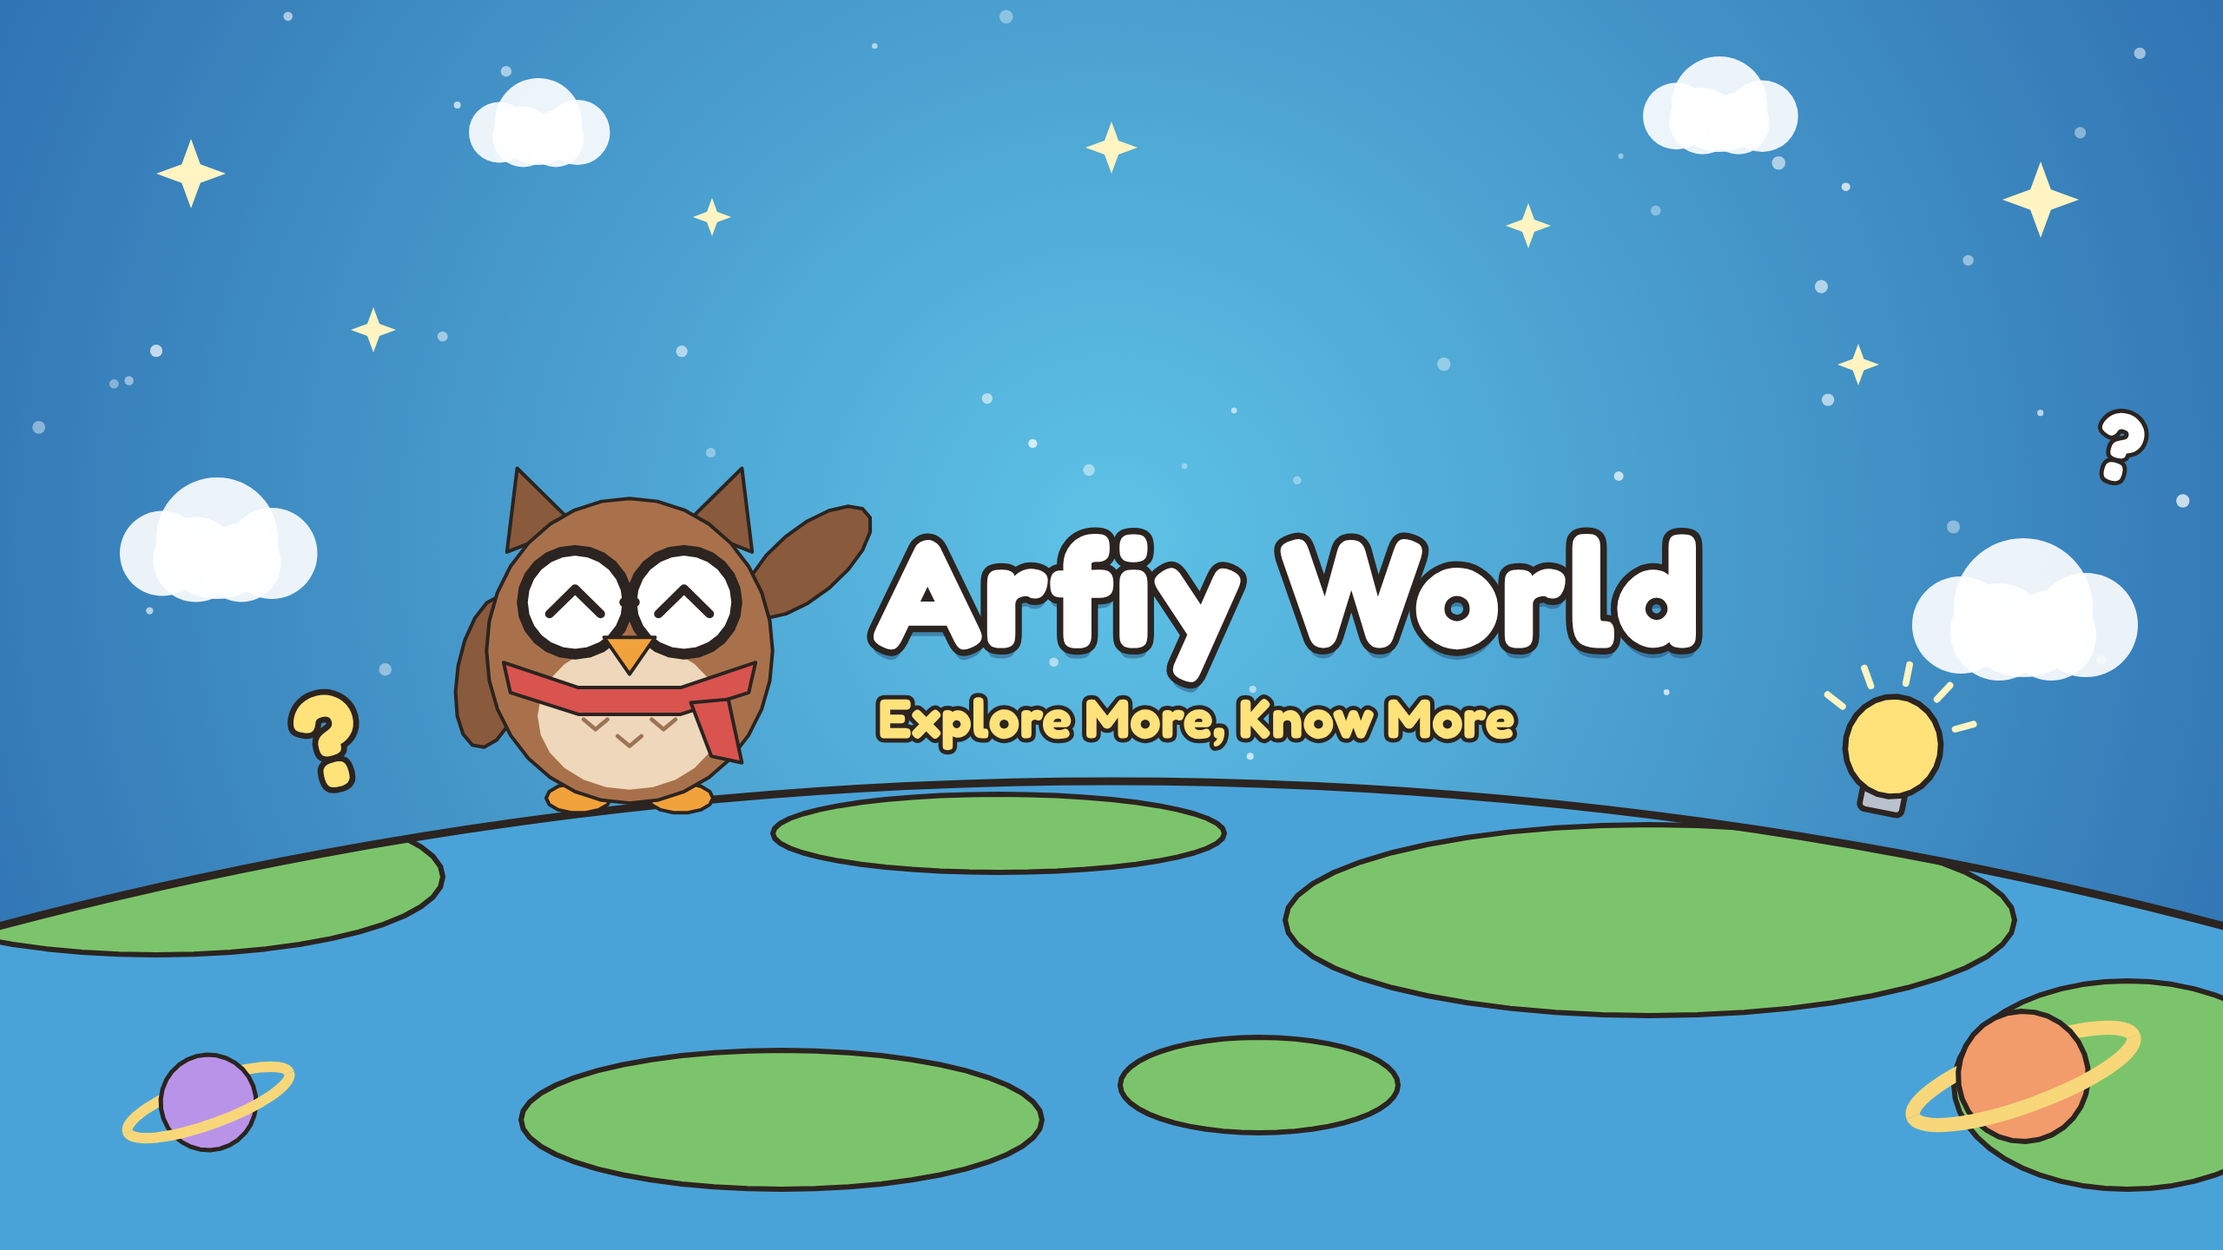
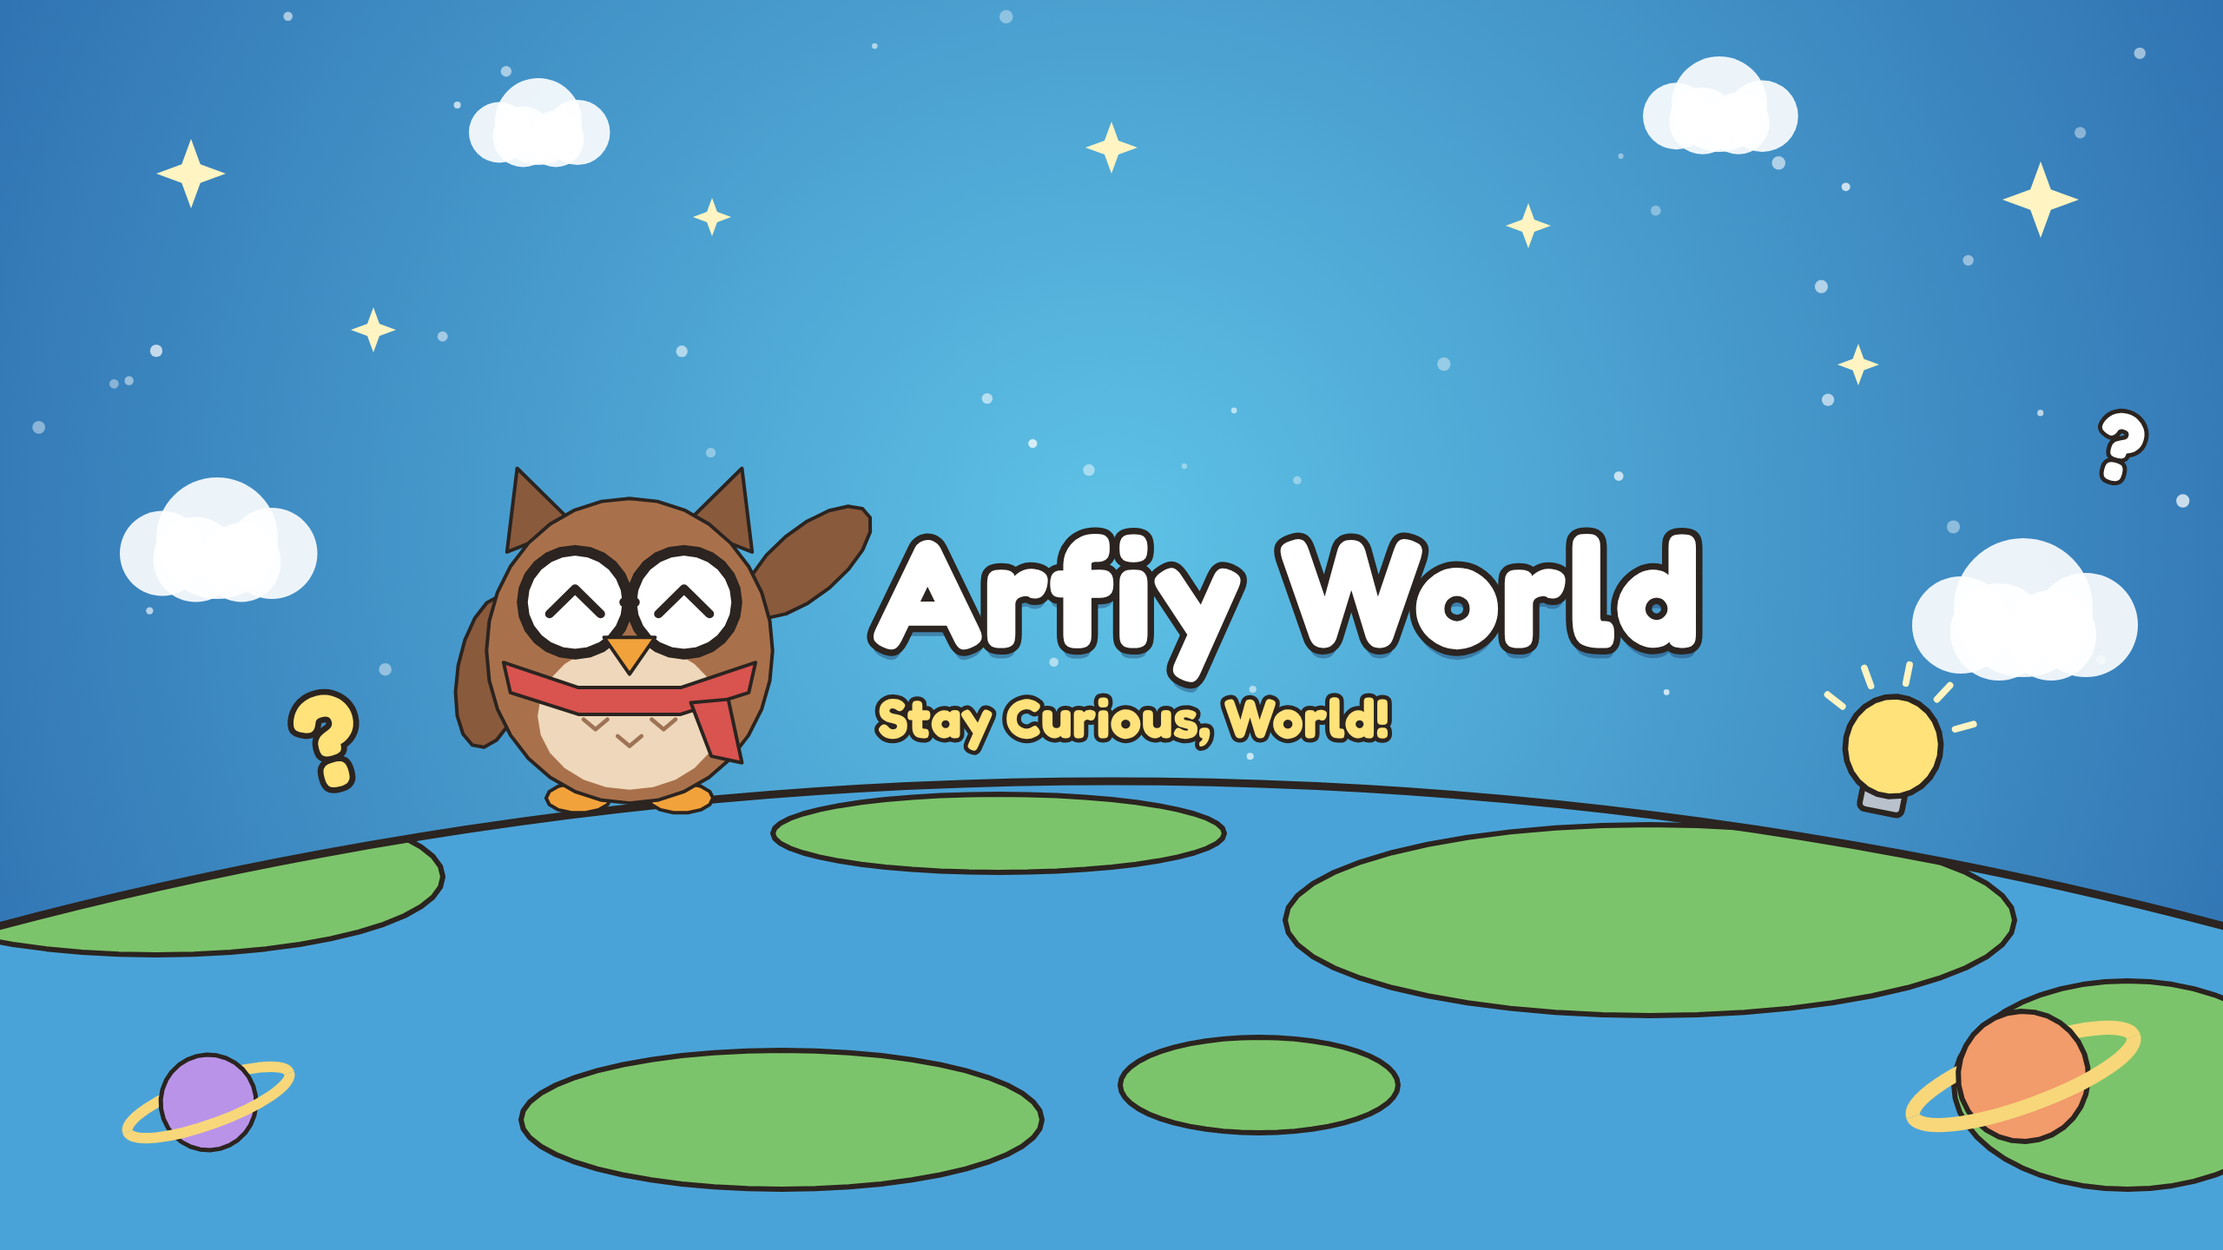
Ganti slogan penutup jadi "Stay Curious, World!"
Aturan §11/§12/checklist, skrip baru, kartu penutup (dasar.js),
kamus ucapan, bio & deskripsi akun, serta banner ikut diperbarui.

Claude-Session: https://claude.ai/code/session_01GVfffxuAP1xZddtmSRJYLz

Changed region(s): [[0.375, 0.5312, 0.6875, 0.625]]

diff --git a/projects/_bersama/dasar.js b/projects/_bersama/dasar.js
@@ -131,7 +131,7 @@ function brandStamp(x, y, age, life) {
   ctx.font = `700 76px ${FONT}`; ctx.fillStyle = '#33241C'; ctx.textBaseline = 'middle'; ctx.fillText('Adriy.Project', -150, 4);
   ctx.restore();
 }
-function endCard(t, start) {   // "Explore More, Know More": last line, same card in every video (aturan §11)
+function endCard(t, start) {   // "Stay Curious, World!": last line, same card in every video (aturan §11)
   const a = t - start; if (a < 0) return;
   const k = lerp(.86, 1, easeOut(seg(a, 0, .6))), al = seg(a, 0, .45);
   ctx.save(); ctx.globalAlpha = al;
@@ -140,8 +140,8 @@ function endCard(t, start) {   // "Explore More, Know More": last line, same car
   ctx.translate(540, 820); ctx.scale(k, k);
   GAYA.shape(rr(-400, -230, 800, 460, 40), '#FFF3D6', 9200, { fill: .99, text: true });
   ctx.textAlign = 'center'; ctx.textBaseline = 'middle'; ctx.fillStyle = '#33241C';
-  ctx.font = `700 104px ${FONT}`; ctx.fillText('Explore More,', 0, -78);
-  ctx.fillStyle = '#C4572F'; ctx.fillText('Know More', 0, 52);
+  ctx.font = `700 104px ${FONT}`; ctx.fillText('Stay Curious,', 0, -78);
+  ctx.fillStyle = '#C4572F'; ctx.fillText('World!', 0, 52);
   ctx.fillStyle = rgba('#E3A33B', .9); ctx.fillRect(-200, 128, 400, 10);
   ctx.textAlign = 'left'; ctx.restore();
   ctx.save(); ctx.globalAlpha = al; clawd(540, 1330, 24, { end: true, face: 'happy', arms: [.3, 1.3 + .35 * Math.sin(a * 9)], dy: -.3 * Math.abs(Math.sin(a * 3)) }); ctx.restore();

diff --git a/projects/akun/akun.html b/projects/akun/akun.html
@@ -66,7 +66,7 @@ function banner() {
   // area aman YouTube: x 507–2053, y 508–931
   adriy(725, 929, 39, { face: 'happy', arms: [.3, 1.5] });
   const tw = title('Arfiy World', 1005, 745, 178, '#FFFFFF', INK, 15);
-  title('Explore More, Know More', 1011, 850, 64, '#FFE27A', INK, 10);
+  title('Stay Curious, World!', 1011, 850, 64, '#FFE27A', INK, 10);
   window.TW = tw;
 }
 window.ready.then(() => { T = 1.3; MODE === 'banner' ? banner() : profil(); window.done = true; });

diff --git a/projects/suara/ucapan.py b/projects/suara/ucapan.py
@@ -10,7 +10,7 @@ HURUF = json.load(open(os.path.join(HERE, 'kamus_huruf.json')))   # A -> "A", B 
 # kata yang terbukti sering salah ucap -> ejaan bantu yang berhasil (lihat projects/bangun-pagi/perbaiki_ucapan.py)
 KATA = {'Arfiy World': 'Arfi Werld', 'Adriy.Project': 'Adri titik Project', 'Whoosh': 'Wush', 'WHOOSH': 'Wush', 'alarm': 'alarrm', 'Alarm': 'Alarrm', 'snooze': 'snuz', 'Snooze': 'Snuz', 'Cahaya': 'Cahaaya', 'cahaya': 'cahaaya',
         'weekend': 'wiken', 'Weekend': 'Wiken', 'Clawd': 'Klod',
-        'Explore More, Know More': 'Eksplor mor, nou mor', 'wkwk': 'wakakak', 'spotlight effect': 'spotlait efek', 'earworm': 'irworm', 'Reading': 'Reding', 'Cornell': 'Kornel', 'Explore More. Know More': 'Eksplor mor. Nou mor', "Hershey's": 'Hersis', 'Lindt': 'Lint', 'Shampanier': 'Syampanie', 'Ariely': 'Arieli', 'zero price effect': 'ziro prais efek', 'migrating motor complex': 'maigreting motor kompleks', 'Washington': 'Wosyington'}
+        'Stay Curious, World!': 'Stei kyurius, werld!', 'Stay Curious, World': 'Stei kyurius, werld', 'Explore More, Know More': 'Eksplor mor, nou mor', 'wkwk': 'wakakak', 'spotlight effect': 'spotlait efek', 'earworm': 'irworm', 'Reading': 'Reding', 'Cornell': 'Kornel', 'Explore More. Know More': 'Eksplor mor. Nou mor', "Hershey's": 'Hersis', 'Lindt': 'Lint', 'Shampanier': 'Syampanie', 'Ariely': 'Arieli', 'zero price effect': 'ziro prais efek', 'migrating motor complex': 'maigreting motor kompleks', 'Washington': 'Wosyington'}
 
 ASING = {'Project', 'Cornell', 'effect', 'Explore'}
 

diff --git a/aturan.md b/aturan.md
@@ -271,9 +271,11 @@ Nama akun **Arfiy World** disebut di dalam narasi supaya penonton **ingat**, jad
 - ❌ "Follow Arfiy World buat konten lainnya!" (di akhir dan seperti iklan)
 - ❌ Disebut 3 kali dalam video 1 menit, atau tanpa stempel dan bunyi khas
 
-## 11. CTA (ajakan) di skrip & penutup "Explore More, Know More"
+## 11. CTA (ajakan) di skrip & penutup "Stay Curious, World!"
 
-Setiap skrip **wajib** punya CTA dan **wajib** ditutup dengan kalimat khas **"Explore More, Know More"**.
+> Mulai 27 Nov 2026 slogan penutup = **"Stay Curious, World!"** (dipilih pemilik), menggantikan "Explore More, Know More" yang dipakai video lama.
+
+Setiap skrip **wajib** punya CTA dan **wajib** ditutup dengan kalimat khas **"Stay Curious, World!"**.
 
 **Urutan bagian akhir video (wajib):**
 1. **Kesimpulan singkat**: 1–2 kalimat yang mengaitkan isi video ke kehidupan penonton.
@@ -281,23 +283,23 @@ Setiap skrip **wajib** punya CTA dan **wajib** ditutup dengan kalimat khas **"Ex
    - Bentuk yang dipakai: pilihan ("pilih yang mana: A, B, atau C?"), pengakuan ("kamu pernah juga? tulis 'gue banget'"), atau tebakan ("menurutmu kenapa…?").
    - Teks di layar menampilkan pilihannya, Adriy menunjuk ke arah kolom komentar (kanan bawah, tetap di kotak aman).
 3. **CTA kedua (pilih 1, singkat, ≤ 1 kalimat)**: ajak **simpan** ("Simpan biar nggak lupa"), **bagikan** ("Kirim ke teman yang suka begini"), atau **ikuti** ("Ikuti buat fakta kayak gini lagi"). Ganti-ganti tiap video; **tanpa menyebut nama akun** (nama akun hanya di tengah, §10).
-4. **Penutup "Explore More, Know More"**: kalimat **terakhir** video, selalu sama persis.
+4. **Penutup "Stay Curious, World!"**: kalimat **terakhir** video, selalu sama persis.
 
-**Aturan "Explore More, Know More":**
-- **Diucapkan** di narasi sebagai kalimat terakhir, dengan jeda ±0,4 detik sebelumnya. Arahan suara: *hangat, yakin, tersenyum, tempo sedang*. Cara baca: "eksplor mor, nou mor"; lolos cek ucapan (`cek_ucapan.py`) sebelum dipakai.
-- **Ditampilkan** sebagai kartu penutup: teks **"Explore More, Know More"** di tengah kotak aman, ukuran ≥ 80 px, desain & warna sama di setiap video, muncul halus (fade + sedikit membesar), bertahan **≥ 1,5 detik**. Adriy melambai atau memberi hormat kecil di sampingnya.
+**Aturan "Stay Curious, World!":**
+- **Diucapkan** di narasi sebagai kalimat terakhir, dengan jeda ±0,4 detik sebelumnya. Arahan suara: *hangat, yakin, tersenyum, tempo sedang*. Cara baca: "stei kyurius, werld"; lolos cek ucapan (`cek_ucapan.py`) sebelum dipakai.
+- **Ditampilkan** sebagai kartu penutup: teks **"Stay Curious, World!"** di tengah kotak aman, ukuran ≥ 80 px, desain & warna sama di setiap video, muncul halus (fade + sedikit membesar), bertahan **≥ 1,5 detik**. Adriy melambai atau memberi hormat kecil di sampingnya.
 - **Bunyi khas penutup** selalu sama (pilih 1 sekali, lalu dipakai terus; berbeda dari bunyi khas nama akun §10). Musik mengecil lalu selesai bersama kartu.
 - Tidak dihitung sebagai penyebutan nama akun; nama "Arfiy World" tetap **tidak** muncul di akhir.
 - Teks dan cara ucapnya **tidak boleh diubah** (tanpa terjemahan, tanpa tambahan kata).
 
 **Contoh bagian akhir yang benar:**
-> "Jadi kalau lain kali kamu lihat burung kecil di atas gedung, jangan diremehin." → "Kalau kamu bisa punya satu kemampuan falcon: badan peluru, hidung jet, atau kacamata bawaan, pilih yang mana? Tulis di komentar!" → "Simpan biar kamu bisa pamer fakta ini ke teman." → *(jeda)* "Explore More, Know More."
+> "Jadi kalau lain kali kamu lihat burung kecil di atas gedung, jangan diremehin." → "Kalau kamu bisa punya satu kemampuan falcon: badan peluru, hidung jet, atau kacamata bawaan, pilih yang mana? Tulis di komentar!" → "Simpan biar kamu bisa pamer fakta ini ke teman." → *(jeda)* "Stay Curious, World!"
 
 **Contoh yang salah:**
 - ❌ "Jangan lupa like, comment, share, dan follow ya!" (CTA umum, tidak memancing jawaban, terlalu banyak permintaan)
 - ❌ Lebih dari 2 CTA, atau CTA di tengah video yang memotong cerita
-- ❌ "Explore More, Know More" diucapkan lalu masih ada kalimat lain sesudahnya
-- ❌ "Explore More, Know More bersama Arfiy World!" (menambah kata & menyebut nama di akhir)
+- ❌ "Stay Curious, World!" diucapkan lalu masih ada kalimat lain sesudahnya
+- ❌ "Stay Curious, Arfiy World!" (menambah kata & menyebut nama akun di akhir; "World" di slogan bukan nama akun)
 
 ## 12. Durasi & alur: masalah dibahas tuntas dulu, baru solusi (dari pemilik)
 
@@ -313,7 +315,7 @@ Masukan pemilik: video terlalu cepat melompat ke penyelesaian, padahal pembahasa
 | 3. Dugaan umum | Apa yang biasanya orang kira / lakukan, dan **kenapa itu tidak berhasil** | ± 10% |
 | 4. Penyebab | Penjelasan ilmiah **langkah demi langkah**, satu ide per adegan, pakai perumpamaan sehari-hari. Bukti/penelitian disebut di sini. Momen "Arfiy World" (§10) masuk di bagian ini | ± 30% |
 | 5. Solusi | Baru di sini trik/jawaban. Jelaskan **cara melakukannya** (langkah 1-2-3) dan contoh penerapannya | ± 20% |
-| 6. Rangkuman + CTA | Ulang inti dalam 1 kalimat, lalu CTA (§11) dan "Explore More, Know More" | ± 10% |
+| 6. Rangkuman + CTA | Ulang inti dalam 1 kalimat, lalu CTA (§11) dan "Stay Curious, World!" | ± 10% |
 
 **Larangan:**
 - Solusi/trik **tidak boleh** muncul sebelum bagian Masalah dan Penyebab selesai (paling cepat di **55–60% durasi**). Hook boleh *menjanjikan* jawaban, tapi tidak *menjelaskannya*.
@@ -327,7 +329,7 @@ CTA harus terasa seperti **ajakan ngobrol**, bukan perintah. Susunan (melengkapi
 2. **Pertanyaan yang gampang dijawab** dalam 1–3 kata atau angka, dan **memancing cerita** ("Kamu tim A atau tim B? Tulis A atau B di komentar!", "Berapa kali hari ini? Tulis angkanya!"). Beri **contoh jawaban** supaya penonton tidak ragu.
 3. **Alasan untuk menjawab:** "Aku penasaran siapa yang paling parah," "Jawaban paling lucu aku balas."
 4. **CTA kedua** (pilih satu): kirim ke teman yang **spesifik** ("teman yang paling sering…"), atau simpan **dengan alasan** ("simpan buat dicoba besok pagi"), atau ikuti **dengan janji** ("masih ada fakta aneh soal tubuhmu minggu depan").
-5. "Explore More, Know More."
+5. "Stay Curious, World!"
 
 Contoh benar: "Nah, sekarang giliran kamu. Kamu tim ngapus chat, atau tim langsung kirim? Tulis 'hapus' atau 'kirim' di komentar. Aku penasaran mana yang lebih banyak. Terus, kirim video ini ke teman yang paling sering bales 'wkwk' doang."
 Contoh salah: "Tulis di komentar ya!" (tidak jelas apa yang ditulis); tiga perintah sekaligus.
@@ -376,7 +378,7 @@ Mulai sekarang semua video memakai tokoh sendiri: **Adriy**, burung hantu kecil 
 - [ ] Gaya animasi dipilih lewat 6 langkah §9: metafora inti + alasan 1 kalimat ditulis, tidak termasuk gaya yang dilarang, beda dari video sebelumnya
 - [ ] Semua teks di kotak aman x 60–927, y 212–1540 (cek dengan garis bantu area aman)
 - [ ] "Arfiy World" disebut 1 kali (maks. 2 untuk video > 2 menit), di tengah (30–70% durasi), tidak di awal/akhir, dengan kalimat khusus + jeda, stempel visual ≥ 2 detik + reaksi Adriy, dan bunyi khas sting-bright-short
-- [ ] Bagian akhir sesuai §11: kesimpulan → CTA komentar yang memancing jawaban → 1 CTA kedua (simpan/bagikan/ikuti, tanpa nama akun) → "Explore More, Know More" sebagai kalimat terakhir (diucapkan + kartu penutup ≥ 1,5 detik + bunyi khas penutup)
+- [ ] Bagian akhir sesuai §11: kesimpulan → CTA komentar yang memancing jawaban → 1 CTA kedua (simpan/bagikan/ikuti, tanpa nama akun) → "Stay Curious, World!" sebagai kalimat terakhir (diucapkan + kartu penutup ≥ 1,5 detik + bunyi khas penutup)
 
 ## Riwayat video
 

diff --git a/projects/SKRIP-BARU.md b/projects/SKRIP-BARU.md
@@ -10,7 +10,7 @@
   - Alasan: Gaya potongan garis dipilih karena "suara dari dalam perut" di judul terlihat sebagai usus yang dibelah dan gelombang bersih-bersih yang lewat.
 - **Hook /yt-script (skor versi Inggris):** 70 WORKABLE (The Mistake); 2 versi lain: 58, 57
   - Versi Inggris yang diskor: "Stop worrying when your stomach growls in class. It is not hunger, it happens about every 2 hours, but why?"
-- **Alur §12:** hook → masalah (contoh sehari-hari) → dugaan umum → penyebab + penelitian (+ momen Arfiy World) → solusi langkah 1-2-3 → rangkuman → CTA §13 → "Explore More, Know More"
+- **Alur §12:** hook → masalah (contoh sehari-hari) → dugaan umum → penyebab + penelitian (+ momen Arfiy World) → solusi langkah 1-2-3 → rangkuman → CTA §13 → "Stay Curious, World!"
 - **Panjang:** 50 kalimat, 384 kata (≈ 2:45, setara video wkwk)
 - **Tokoh:** Adriy (§15). **Suara:** contoh suara utama ref5 (§8).
 
@@ -96,7 +96,7 @@
 - Kirim video ini ke teman yang perutnya paling sering bunyi.  _(friendly, playful)_
 
 **PENUTUP**
-- Explore More, Know More.  _(warm, confident, gentle smile in the voice, medium tempo)_
+- Stay Curious, World!  _(warm, confident, gentle smile in the voice, medium tempo)_
 
 
 ---
@@ -111,7 +111,7 @@
   - Alasan: Gaya game dipilih karena "gratis ongkir" di judul terlihat sebagai power-up yang menggoda tapi diam-diam menguras bar saldo.
 - **Hook /yt-script (skor versi Inggris):** 74 STRONG (The Warning); 2 versi lain: 58, 58
   - Versi Inggris yang diskor: "You waste 190 thousand to save 10 thousand on shipping. Stop. Researchers actually found why free fools you."
-- **Alur §12:** hook → masalah (contoh sehari-hari) → dugaan umum → penyebab + penelitian (+ momen Arfiy World) → solusi langkah 1-2-3 → rangkuman → CTA §13 → "Explore More, Know More"
+- **Alur §12:** hook → masalah (contoh sehari-hari) → dugaan umum → penyebab + penelitian (+ momen Arfiy World) → solusi langkah 1-2-3 → rangkuman → CTA §13 → "Stay Curious, World!"
 - **Panjang:** 49 kalimat, 379 kata (≈ 2:45, setara video wkwk)
 - **Tokoh:** Adriy (§15). **Suara:** contoh suara utama ref5 (§8).
 
@@ -192,7 +192,7 @@
 - Simpan video ini. Buka lagi sebelum kamu tekan tombol bayar.  _(friendly, warm)_
 
 **PENUTUP**
-- Explore More, Know More.  _(warm, confident, gentle smile in the voice, medium tempo)_
+- Stay Curious, World!  _(warm, confident, gentle smile in the voice, medium tempo)_
 
 
 ---
@@ -207,7 +207,7 @@
   - Alasan: Gaya cukil kayu dipilih karena "dendam yang diwariskan" di judul terlihat seperti dongeng lama yang diceritakan turun-temurun.
 - **Hook /yt-script (skor versi Inggris):** 72 STRONG (The Question); 2 versi lain: 59, 49
   - Versi Inggris yang diskor: "Never make a crow angry. You could be scolded for 5 years, and its friends actually join in. But why?"
-- **Alur §12:** hook → masalah (contoh sehari-hari) → dugaan umum → penyebab + penelitian (+ momen Arfiy World) → solusi langkah 1-2-3 → rangkuman → CTA §13 → "Explore More, Know More"
+- **Alur §12:** hook → masalah (contoh sehari-hari) → dugaan umum → penyebab + penelitian (+ momen Arfiy World) → solusi langkah 1-2-3 → rangkuman → CTA §13 → "Stay Curious, World!"
 - **Panjang:** 47 kalimat, 374 kata (≈ 2:45, setara video wkwk)
 - **Tokoh:** Adriy (§15). **Suara:** contoh suara utama ref5 (§8).
 
@@ -289,7 +289,7 @@
 - Ikuti, karena masih banyak hewan yang ternyata jauh lebih pintar dari kita kira.  _(friendly, upbeat)_
 
 **PENUTUP**
-- Explore More, Know More.  _(warm, confident, gentle smile in the voice, medium tempo)_
+- Stay Curious, World!  _(warm, confident, gentle smile in the voice, medium tempo)_
 
 
 ---

diff --git a/projects/akun/PROFIL.md b/projects/akun/PROFIL.md
@@ -2,9 +2,9 @@
 
 ## Bio TikTok (maks. 80 karakter), pilih 1
 
-1. `Fakta unik sains, sejarah & luar angkasa 🌍 Explore More, Know More` (66) — **disarankan**, cocok dengan ikon di banner
-2. `Kenapa begini? Kok bisa? Kita bongkar faktanya 🌍 Explore More, Know More` (72) — memancing rasa penasaran
-3. `Hal sehari-hari ternyata ada sainsnya 🔍 Explore More, Know More` (63) — fokus ke topik sehari-hari
+1. `Fakta unik sains, sejarah & luar angkasa 🌍 Stay Curious, World!` (63) — **disarankan**, cocok dengan ikon di banner
+2. `Kenapa begini? Kok bisa? Kita bongkar faktanya 🌍 Stay Curious, World!` (69) — memancing rasa penasaran
+3. `Hal sehari-hari ternyata ada sainsnya 🔍 Stay Curious, World!` (60) — fokus ke topik sehari-hari
 
 Nama tampilan: **Arfiy World** · Username: `@arfiyworld` (cadangan `@arfiy.world`)
 
@@ -24,7 +24,7 @@ Yang bakal kamu temuin di sini:
 
 Video baru tiap minggu. Subscribe dan nyalain lonceng biar nggak ketinggalan.
 
-Explore More, Know More 🌍
+Stay Curious, World! 🌍
 ```
 
 Panjang ± 650 karakter (batas YouTube 1.000). Kalimat pertama sengaja berupa pertanyaan: kalimat inilah yang terlihat di hasil pencarian.
@@ -37,4 +37,4 @@ fakta unik, fakta menarik, sains, edukasi, sejarah, luar angkasa, fakta hewan, t
 
 ## Tagar tetap di setiap video
 
-`#ArfiyWorld #ExploreMoreKnowMore #faktaunik #edukasi`
+`#ArfiyWorld #StayCuriousWorld #faktaunik #edukasi`

diff --git a/.claude/youtube-agent/voice-adriy.md b/.claude/youtube-agent/voice-adriy.md
@@ -5,5 +5,5 @@
 - **Penonton:** anak muda Indonesia yang scroll FYP; mereka harus berpikir "ini gue banget" atau "kok bisa?!".
 - **Kalimat:** pendek, bisa diucapkan sekali napas. Angka ditulis seperti diucapkan.
 - **Tidak pernah:** "Halo guys", perkenalan diri di awal, "like comment share follow", klaim tanpa sumber, angka karangan.
-- **Selalu:** fakta bersumber; nama "Arfiy World" 1× di tengah ("kami di Arfiy World…"); penutup "Explore More, Know More".
+- **Selalu:** fakta bersumber; nama "Arfiy World" 1× di tengah ("kami di Arfiy World…"); penutup "Stay Curious, World!".
 - **Nada:** hangat, sedikit jahil, kagum bersama penonton (bukan menggurui).
